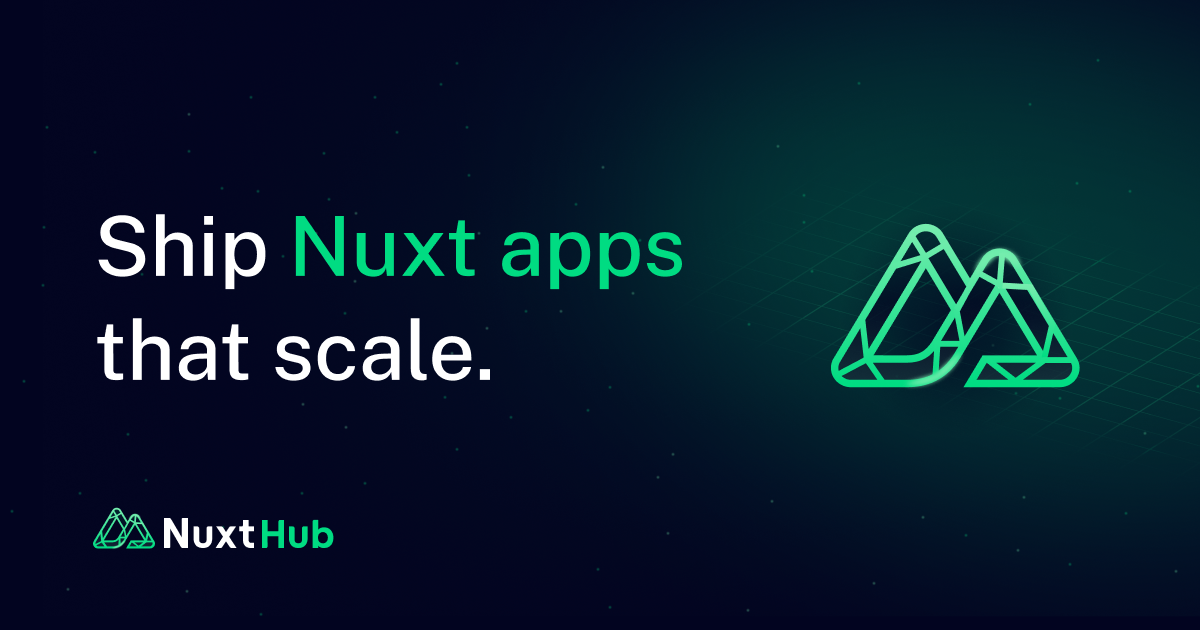
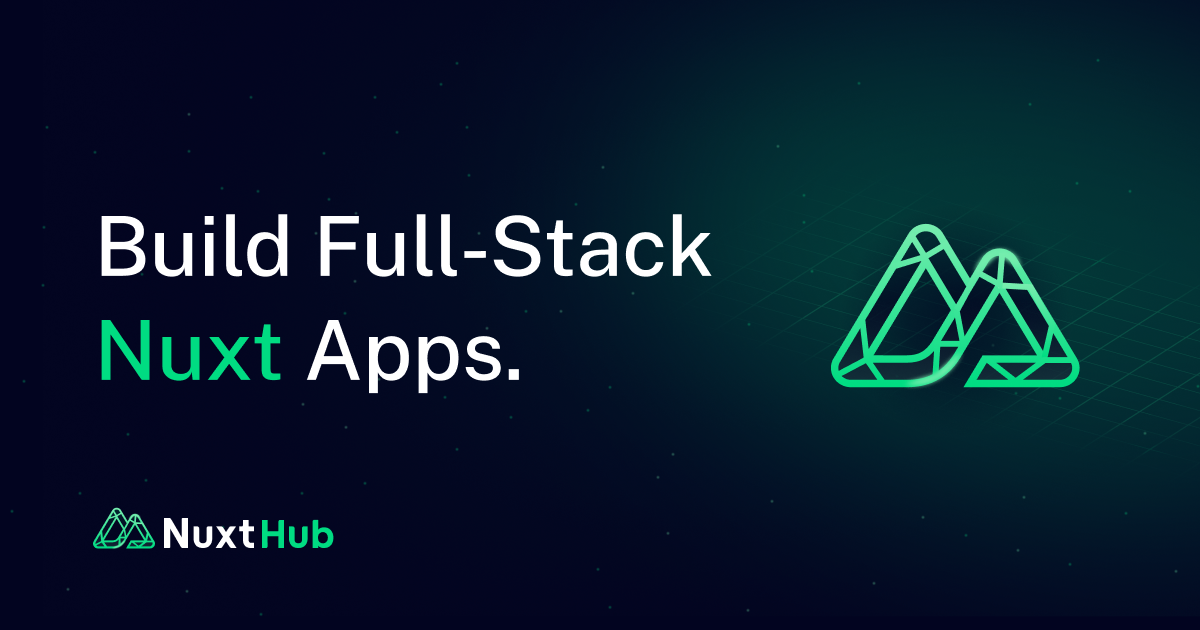
docs: add og image

Changed region(s): [[0.0617, 0.3317, 0.5858, 0.4524], [0.0617, 0.5127, 0.4317, 0.6333]]

diff --git a/docs/content/index.md b/docs/content/index.md
@@ -2,6 +2,8 @@
 title: "Build full-stack Nuxt applications."
 navigation: false
 description: "Build full-stack Nuxt applications, with zero configuration. NuxtHub supercharges your Nuxt development workflow so you can focus on shipping features."
+seo:
+  ogImage: '/social-card.png'
 ---
 
 ::u-page-hero
